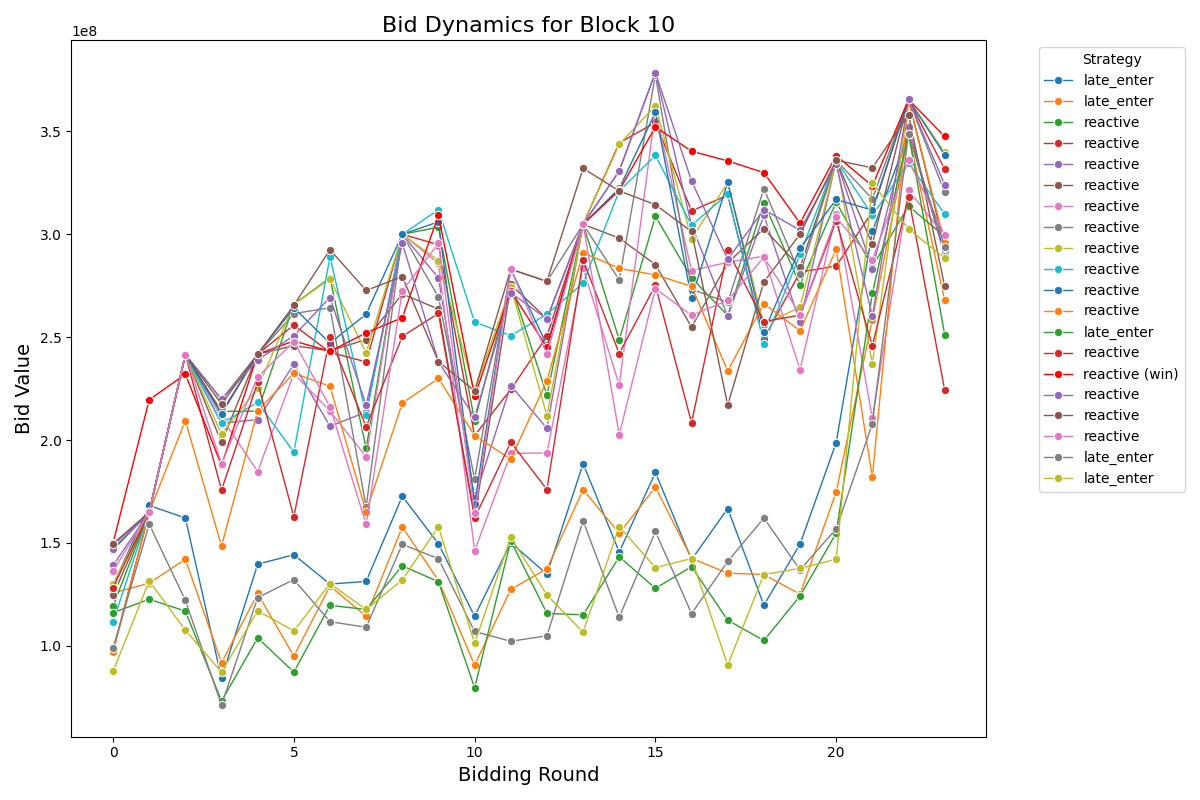
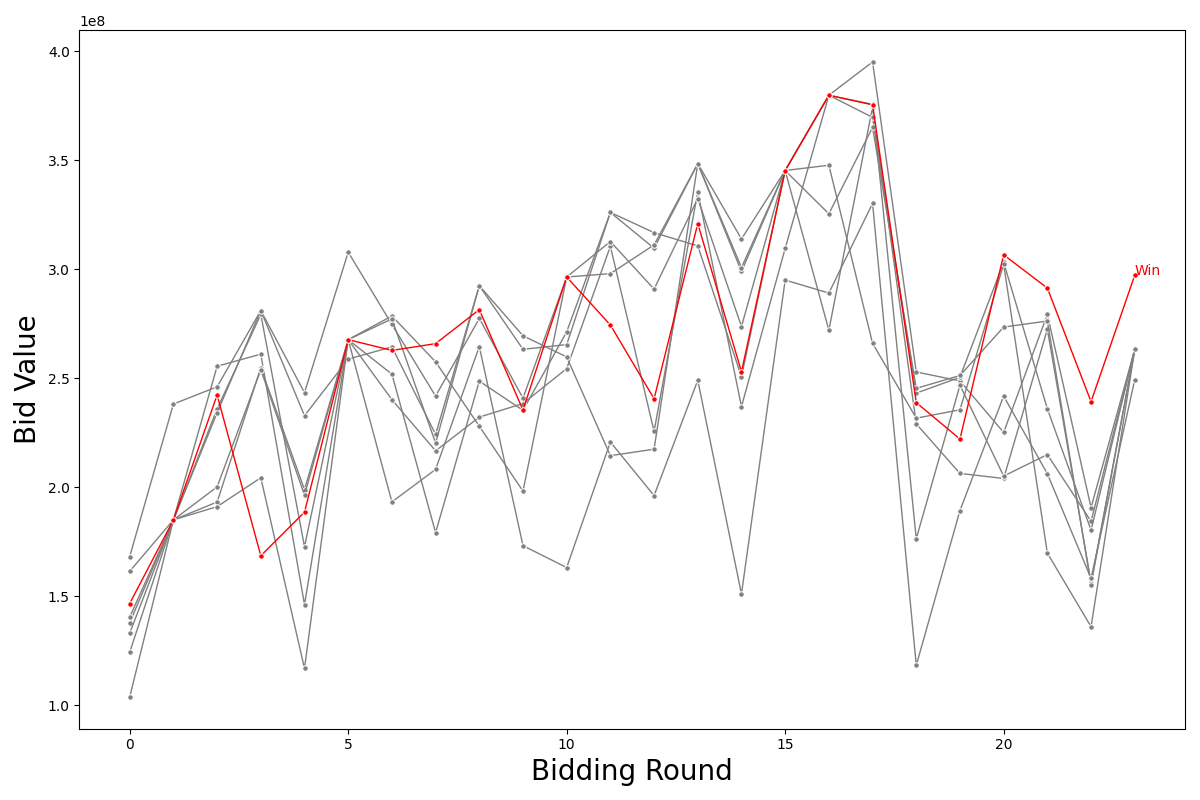
plot clean up

diff --git a/plots/ss/bidding_dynamic.py b/plots/ss/bidding_dynamic.py
@@ -2,6 +2,7 @@ import pandas as pd
 import matplotlib.pyplot as plt
 import seaborn as sns
 import os
+import numpy as np
 
 def plot_bid_dynamics(file_path, output_figure_path, block_number):
     # Load the data into a DataFrame
@@ -17,31 +18,36 @@ def plot_bid_dynamics(file_path, output_figure_path, block_number):
     # Identify the winning builder (highest bid at the last round for the block)
     last_round = block_data['round_num'].max()
     last_round_data = block_data[block_data['round_num'] == last_round]
-    winning_builder = last_round_data.loc[last_round_data['bid'].idxmax()]
+    winning_builder = last_round_data.loc[last_round_data['bid'].idxmax()]['builder_id']
 
-    # Plotting with Seaborn
+    # Filter data to include only winning and 7 other representative lines
+    selected_builders = block_data['builder_id'].unique()
+    if len(selected_builders) > 8:
+        selected_builders = np.random.choice(selected_builders, size=7, replace=False)
+        selected_builders = np.append(selected_builders, winning_builder)
+
+    # Plotting
     plt.figure(figsize=(12, 8))
-    for builder_id, builder_data in block_data.groupby('builder_id'):
-        # Determine the color and label
-        is_winner = builder_id == winning_builder['builder_id']
-        color = 'red' if is_winner else None
-        strategy_label = builder_data['strategy'].iloc[0] + (" (win)" if is_winner else "")
-        
+    for builder_id in selected_builders:
+        builder_data = block_data[block_data['builder_id'] == builder_id]
+        is_winner = builder_id == winning_builder
         sns.lineplot(
             data=builder_data,
             x='round_num',
             y='bid',
-            label=strategy_label,
-            color=color,
             marker='o',
-            linewidth=1  # Thinner lines
+            linewidth=1,  # Thinner line
+            color='red' if is_winner else 'grey',
+            markersize=4  # Smaller marker size
         )
+        # Annotate the winning line
+        if is_winner:
+            last_point = builder_data.iloc[-1]
+            plt.text(last_point['round_num'], last_point['bid'], 'Win', color='red')
 
     # Add titles and labels
-    plt.title(f'Bid Dynamics for Block {block_number}', fontsize=16)
-    plt.xlabel('Bidding Round', fontsize=14)
-    plt.ylabel('Bid Value', fontsize=14)
-    plt.legend(title='Strategy', bbox_to_anchor=(1.05, 1), loc='upper left')
+    plt.xlabel('Bidding Round', fontsize=20)
+    plt.ylabel('Bid Value', fontsize=20)
     plt.tight_layout()
 
     # Ensure output directory exists
@@ -53,8 +59,8 @@ def plot_bid_dynamics(file_path, output_figure_path, block_number):
     # Show the plot
     plt.show()
 
-# Example Usage
-file_path = 'data/same_seed/bid_builder20.csv'  # Path to the CSV file
-output_figure_path = 'figures/ss/bid_dynamics_selected_block.png'  # Path to save the figure
-block_number = 10  # Specify the block number you want to visualize
+# Example usage
+file_path = 'data/same_seed/bid_builder20.csv'
+output_figure_path = 'figures/ss/bid_dynamics_selected_block.png'
+block_number = 5
 plot_bid_dynamics(file_path, output_figure_path, block_number)
